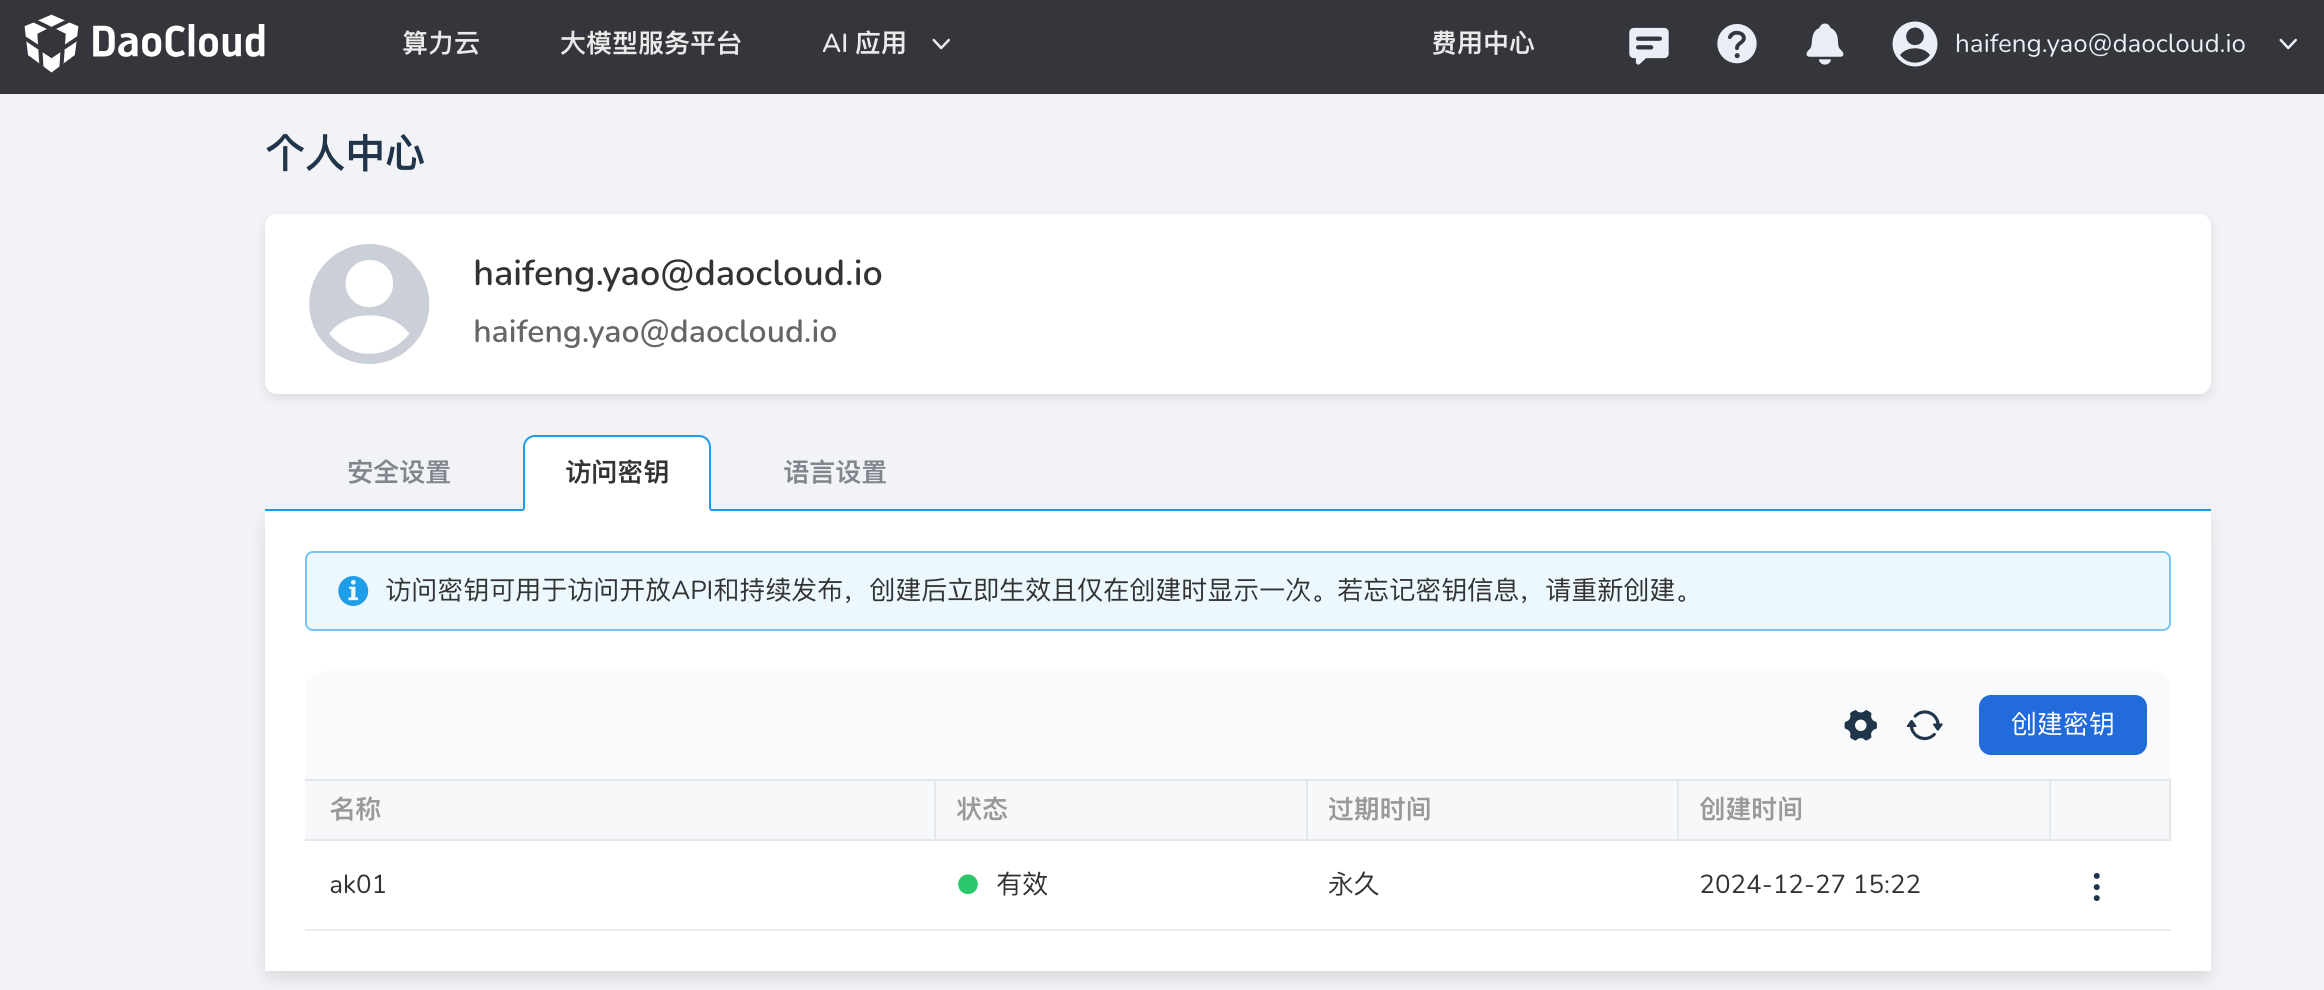
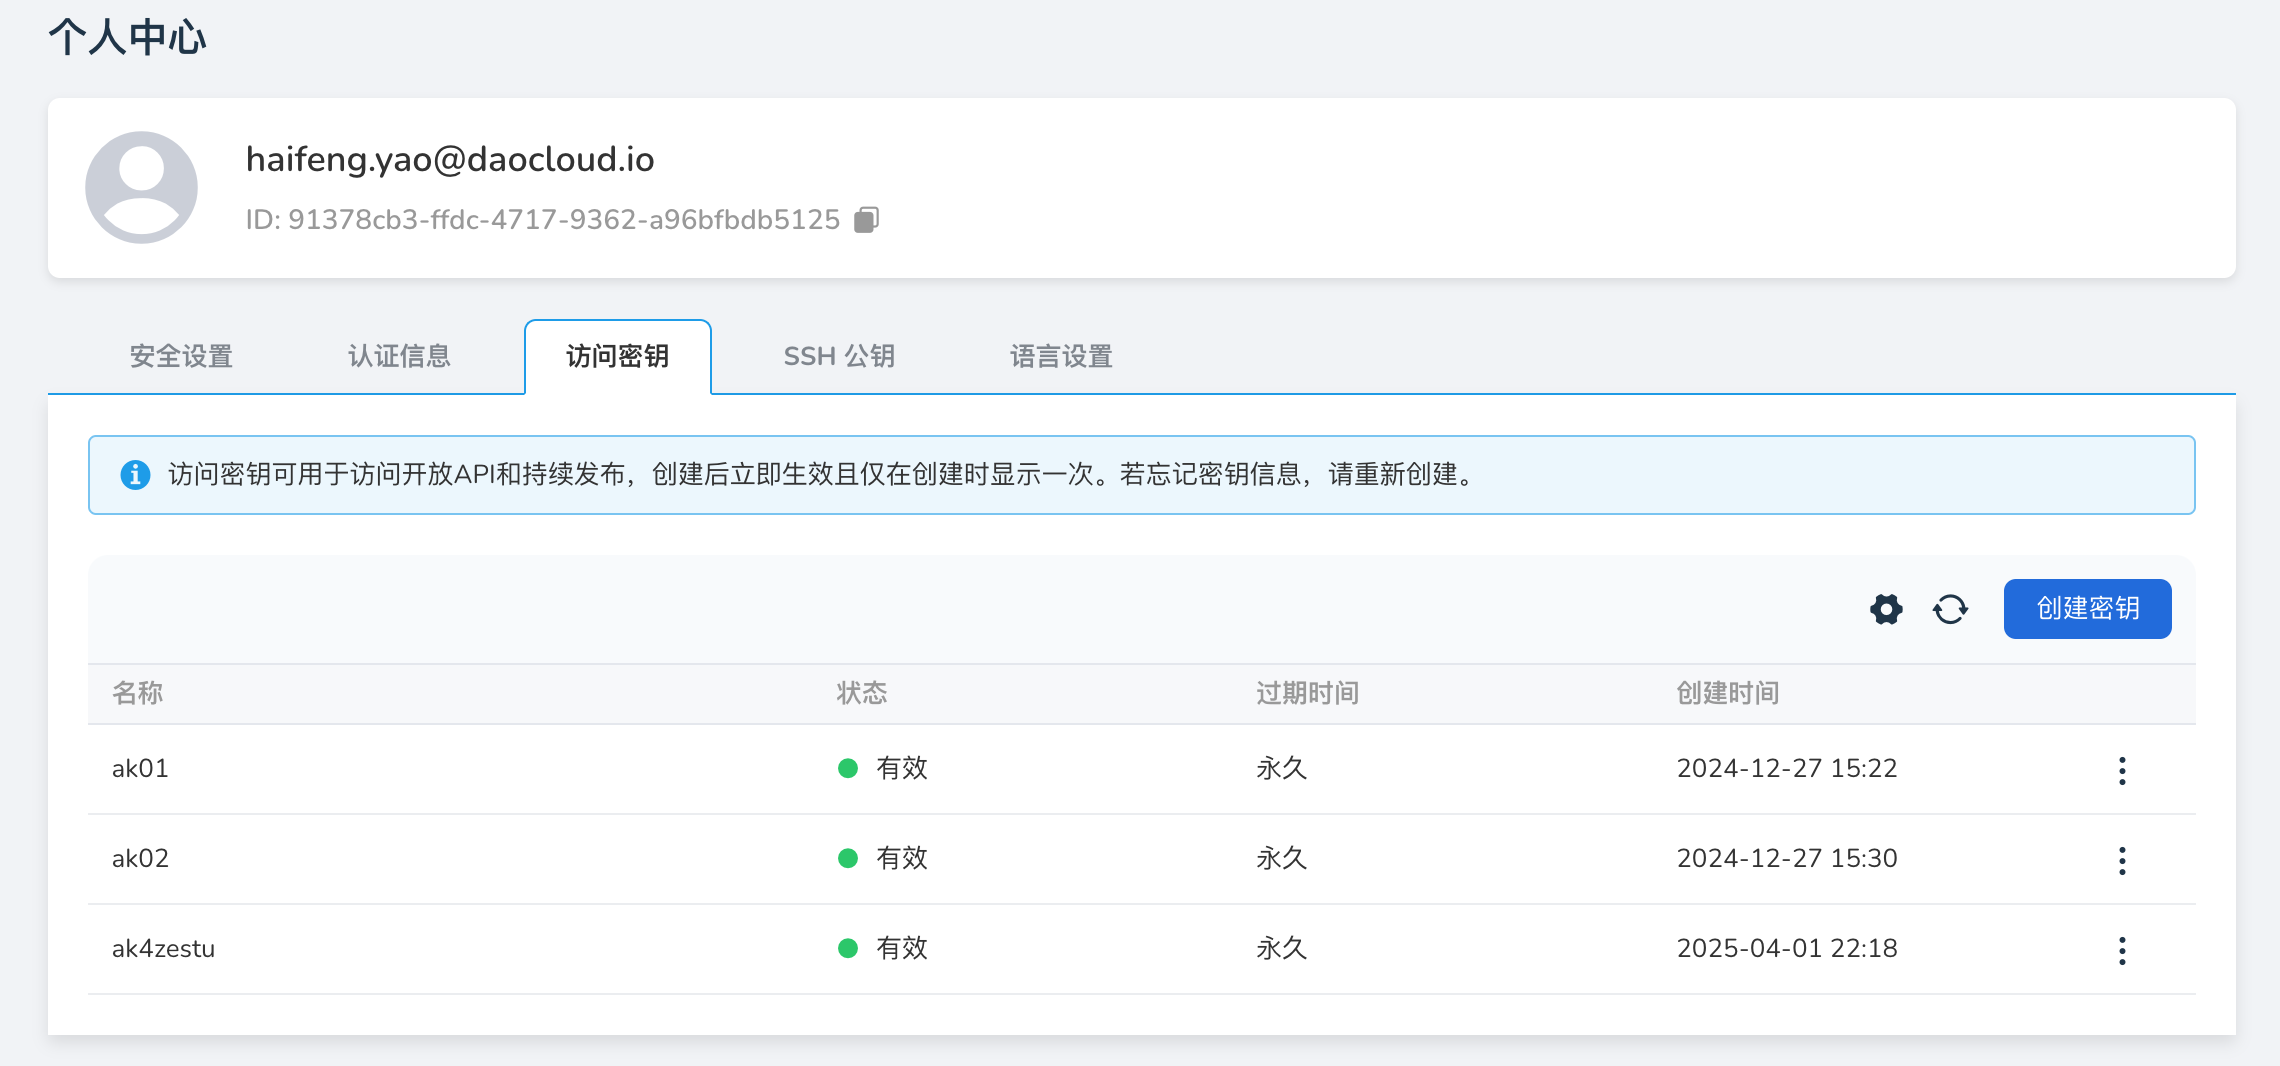
update personal pages

diff --git a/docs/zh/docs/personal/ssh-key.md b/docs/zh/docs/personal/ssh-key.md
@@ -1,0 +1,112 @@
+# 配置 SSH 公钥
+
+本文说明如何配置 SSH 公钥。
+
+<a id="check-ssh"></a>
+
+## 查看已存在的 SSH 公钥
+
+在生成新的 SSH 公钥前，请先确认是否需要使用本地已生成的 SSH 公钥，SSH 公钥对一般存放在本地用户的根目录下。
+Linux、Mac 请直接使用以下命令查看已存在的公钥，Windows 用户在 WSL（需要 Windows 10 或以上）或 Git Bash 下使用以下命令查看已生成的公钥。
+
+- **ED25519 算法：**
+
+    ```bash
+    cat ~/.ssh/id_ed25519.pub
+    ```
+
+- **RSA 算法：**
+
+    ```bash
+    cat ~/.ssh/id_rsa.pub
+    ```
+
+如果返回一长串以 ssh-ed25519 或 ssh-rsa 开头的字符串，说明已存在本地公钥，
+您无需[生成 SSH 公钥](#generate-ssh)，直接[拷贝 SSH 公钥](#copy-ssh)。
+
+<a id="generate-ssh"></a>
+
+## 生成 SSH 公钥
+
+若[查看已存在的 SSH 公钥](#check-ssh)时未返回指定的内容字符串，表示本地暂无可用 SSH 公钥，需要生成新的 SSH 公钥，请按如下步骤操作：
+
+1. 访问终端（Windows 请使用 [WSL](https://docs.microsoft.com/zh-cn/windows/wsl/install)
+   或 [Git Bash](https://gitforwindows.org/)），运行 `ssh-keygen -t`。
+  
+2. 输入密钥算法类型和可选的注释。
+  
+    注释会出现在 .pub 文件中，一般可使用邮箱作为注释内容。
+    
+    - 基于 `ED25519` 算法，生成密钥对命令如下：
+    
+        ```bash
+        ssh-keygen -t ed25519 -C "<注释内容>"
+        ```
+    
+    - 基于 `RSA` 算法，生成密钥对命令如下：
+    
+        ```bash
+        ssh-keygen -t rsa -C "<注释内容>"
+        ```
+
+3. 点击回车，选择 SSH 公钥生成路径。
+
+    以 ED25519 算法为例，默认路径如下：
+
+    ```console
+    Generating public/private ed25519 key pair.
+    Enter file in which to save the key (/home/user/.ssh/id_ed25519):
+    ```
+
+    密钥默认生成路径：`/home/user/.ssh/id_ed25519`，公钥与之对应为：`/home/user/.ssh/id_ed25519.pub`。
+
+4. 设置一个密钥口令。
+
+    ```console
+    Enter passphrase (empty for no passphrase):
+    Enter same passphrase again:
+    ```
+
+    口令默认为空，您可以选择使用口令保护私钥文件。
+    如果您不想在每次使用 SSH 协议访问仓库时，都要输入用于保护私钥文件的口令，可以在创建密钥时，输入空口令。
+
+5. 点击回车，完成密钥对的创建。
+
+<a id="copy-ssh"></a>
+
+## 拷贝公钥
+
+除了在命令行打印出已生成的公钥信息手动复制外，可以使用命令拷贝公钥到粘贴板下，请参考操作系统使用以下命令进行拷贝。
+
+- Windows（在 [WSL](https://docs.microsoft.com/en-us/windows/wsl/install)
+  或 [Git Bash](https://gitforwindows.org/) 下）：
+
+    ```bash
+    cat ~/.ssh/id_ed25519.pub | clip
+    ```
+
+- Mac：
+
+    ```bash
+    tr -d '\n'< ~/.ssh/id_ed25519.pub | pbcopy
+    ```
+
+- GNU/Linux（需要 xclip）：
+
+    ```bash
+    xclip -sel clip < ~/.ssh/id_ed25519.pub
+    ```
+
+<a id="add-ssh"></a>
+
+## 添加公钥
+
+1. 登录 UI 页面，在页面右上角选择 **个人中心** -> **SSH 公钥** -> **导入 SSH 公钥**
+
+    ![导入 SSH 公钥](./images/import-ssh.png)
+
+2. 添加生成的 SSH 公钥信息。
+  
+    - 名称
+    - SSH 公钥内容
+    - 有效期：永久、自定义

diff --git a/docs/zh/docs/personal/index.md b/docs/zh/docs/personal/index.md
@@ -3,21 +3,14 @@ hide:
   - toc
 ---
 
-# 安全设置
+# 个人中心
 
-功能说明：用于填写邮箱地址和修改登录密码。
+个人中心可以设置登录用户的一些个人信息：
 
-- 邮箱：当管理员配置邮箱服务器地址之后，用户能够通过登录页的忘记密码按钮，填写该处的邮箱地址以找回密码。
-- 密码：用于登录平台的密码，建议定期修改密码。
-
-具体操作步骤如下：
-
-1. 使用您的用户名/密码登录 d.run，在右上角的下拉菜单进入 __个人中心__
-
-    ![全局管理](./images/lang01.png)
-
-1. 点击 __安全设置__ 页签，可以修改您的电话号码、邮箱和密码。
-
-    ![安全设置](./images/sec01.png)
-
-[注册并体验 d.run](https://console.d.run/){ .md-button .md-button--primary }
+- [安全设置](./security.md)：设置登录所用的邮箱和密码。
+- [认证信息](./authn.md)：支持通过支付宝进行个人身份认证，以及企业/高校认证。
+- [访问密钥](./accesstoken.md)：可用于访问开放 API 和持续发布，创建后立即生效且仅在创建时显示一次。
+  若忘记密钥信息，请重新创建。
+- [SSH 公钥](./ssh-key.md)：一种用于 SSH 协议中的非对称加密技术的一部分，
+  主要用于在客户端和服务器之间建立安全的连接，常用于远程登录 Linux 服务器、自动化部署等场景。
+- [语言设置](./language.md)：目前 UI 支持简体中文、英语两种语言。

diff --git a/docs/zh/docs/personal/authn.md b/docs/zh/docs/personal/authn.md
@@ -1,0 +1,41 @@
+# 认证信息
+
+为保障平台服务的合规性与安全性，用户需完成相应的实名认证流程。
+d.run 支持 **个人认证** 和 **企业/高校认证** 两种方式。
+
+![认证信息](./images/authn.png)
+
+## 个人认证
+
+适用于个人用户，认证流程快捷高效，通常在几分钟内自动完成审核。
+
+认证步骤如下：
+
+1. **支付宝扫码认证**  
+   使用支付宝扫描认证二维码，绑定实名认证信息。
+
+2. **上传并核实身份证信息**  
+   提交真实有效的身份证件，系统将自动校验姓名与证件号码的匹配性。
+
+3. **人脸识别验证**  
+   使用支付宝完成人脸识别，自动进行比对与审核。  
+
+    > 请确保光线充足，面部无遮挡，以提升识别准确率。
+
+完成以上步骤后，系统将自动完成认证，无需人工干预。
+
+## 企业/高校认证
+
+适用于具备法人资格的公司、高校及其他组织机构。
+
+认证完成后，可享受以下专属服务：
+
+- 支持开具企业/高校抬头的 **增值税专用发票** 或 **增值税普通发票**
+- 享有专属客服与发票支持通道
+
+认证方式：
+
+- 当前仅支持**人工客服认证**流程  
+  请根据文档指引准备材料并联系平台客服提交申请。
+
+详细步骤请参考[企业/高校认证流程](../service/enterprise-certification.md)。

diff --git a/docs/zh/docs/personal/security.md b/docs/zh/docs/personal/security.md
@@ -1,0 +1,23 @@
+---
+hide:
+  - toc
+---
+
+# 安全设置
+
+功能说明：用于填写邮箱地址和修改登录密码。
+
+- 邮箱：当管理员配置邮箱服务器地址之后，用户能够通过登录页的忘记密码按钮，填写该处的邮箱地址以找回密码。
+- 密码：用于登录平台的密码，建议定期修改密码。
+
+具体操作步骤如下：
+
+1. 使用您的用户名/密码登录 d.run，在右上角的下拉菜单进入 __个人中心__
+
+    ![全局管理](./images/lang01.png)
+
+1. 点击 __安全设置__ 页签，可以修改您的电话号码、邮箱和密码。
+
+    ![安全设置](./images/sec01.png)
+
+[注册并体验 d.run](https://console.d.run/){ .md-button .md-button--primary }
